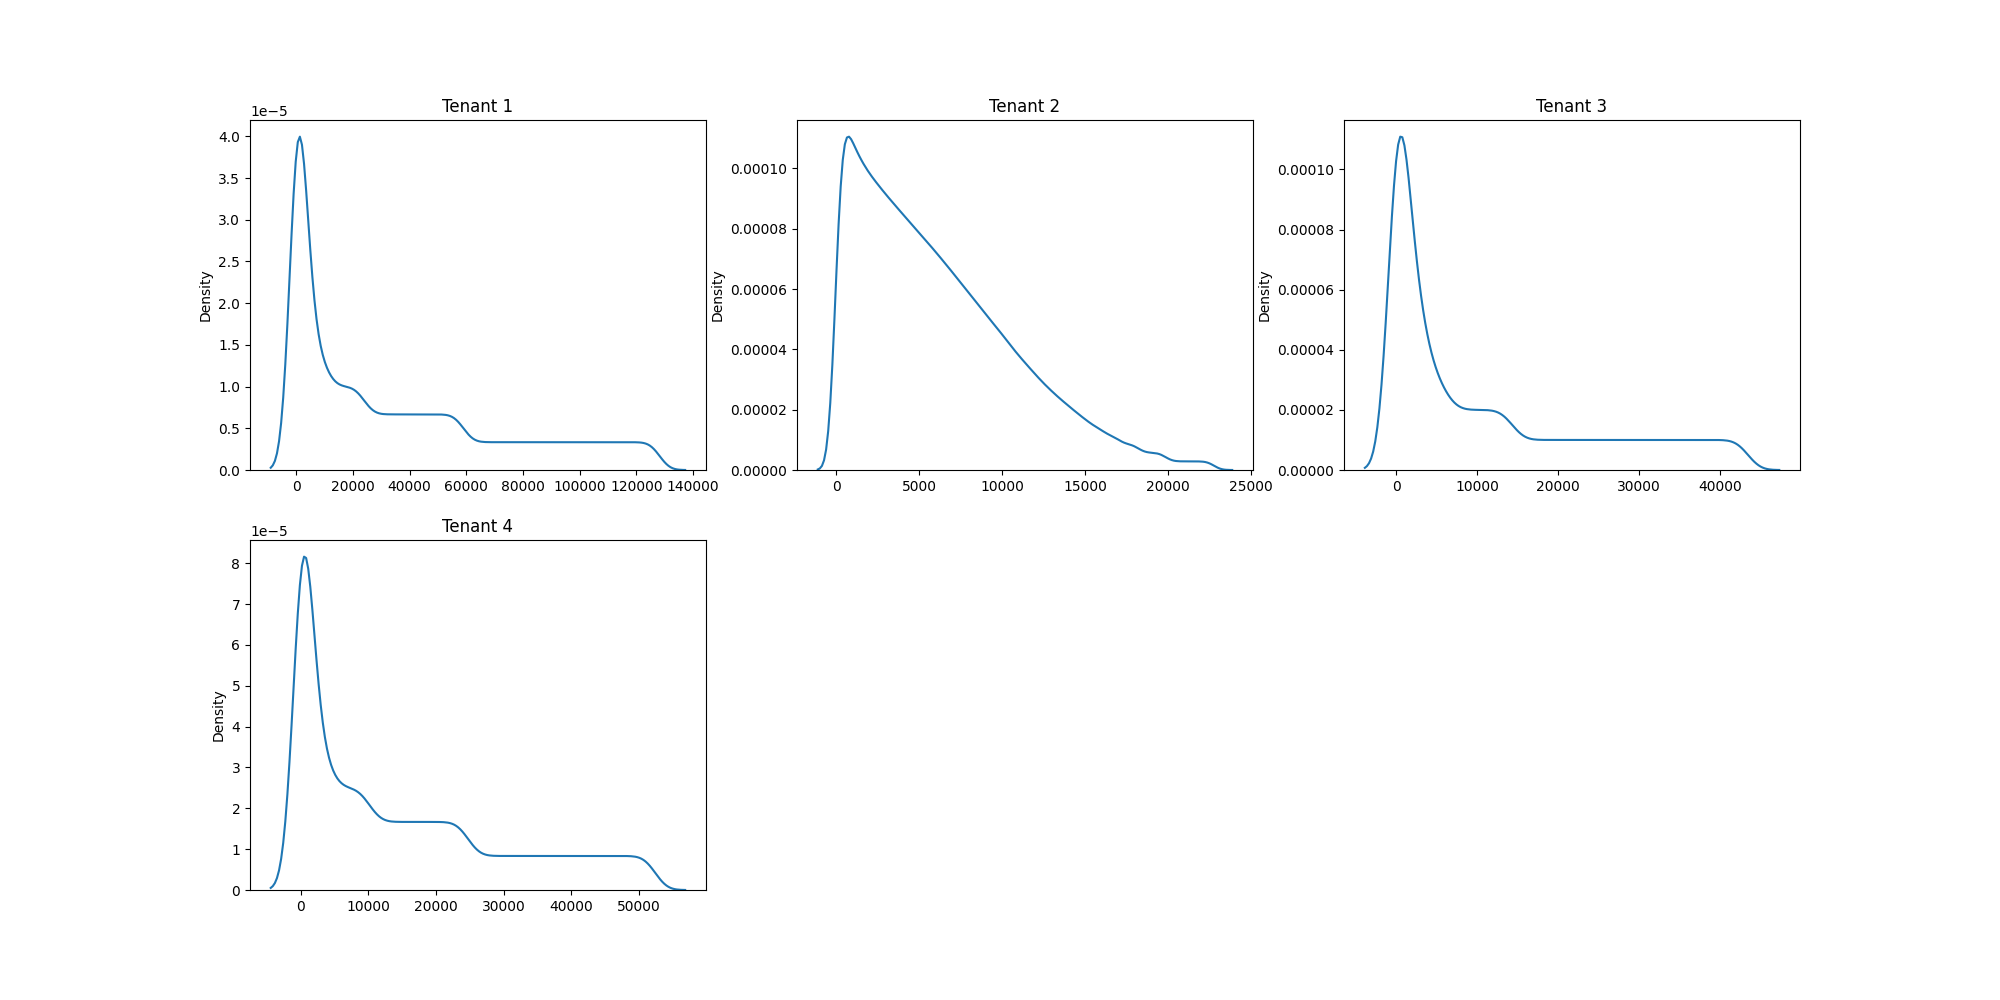
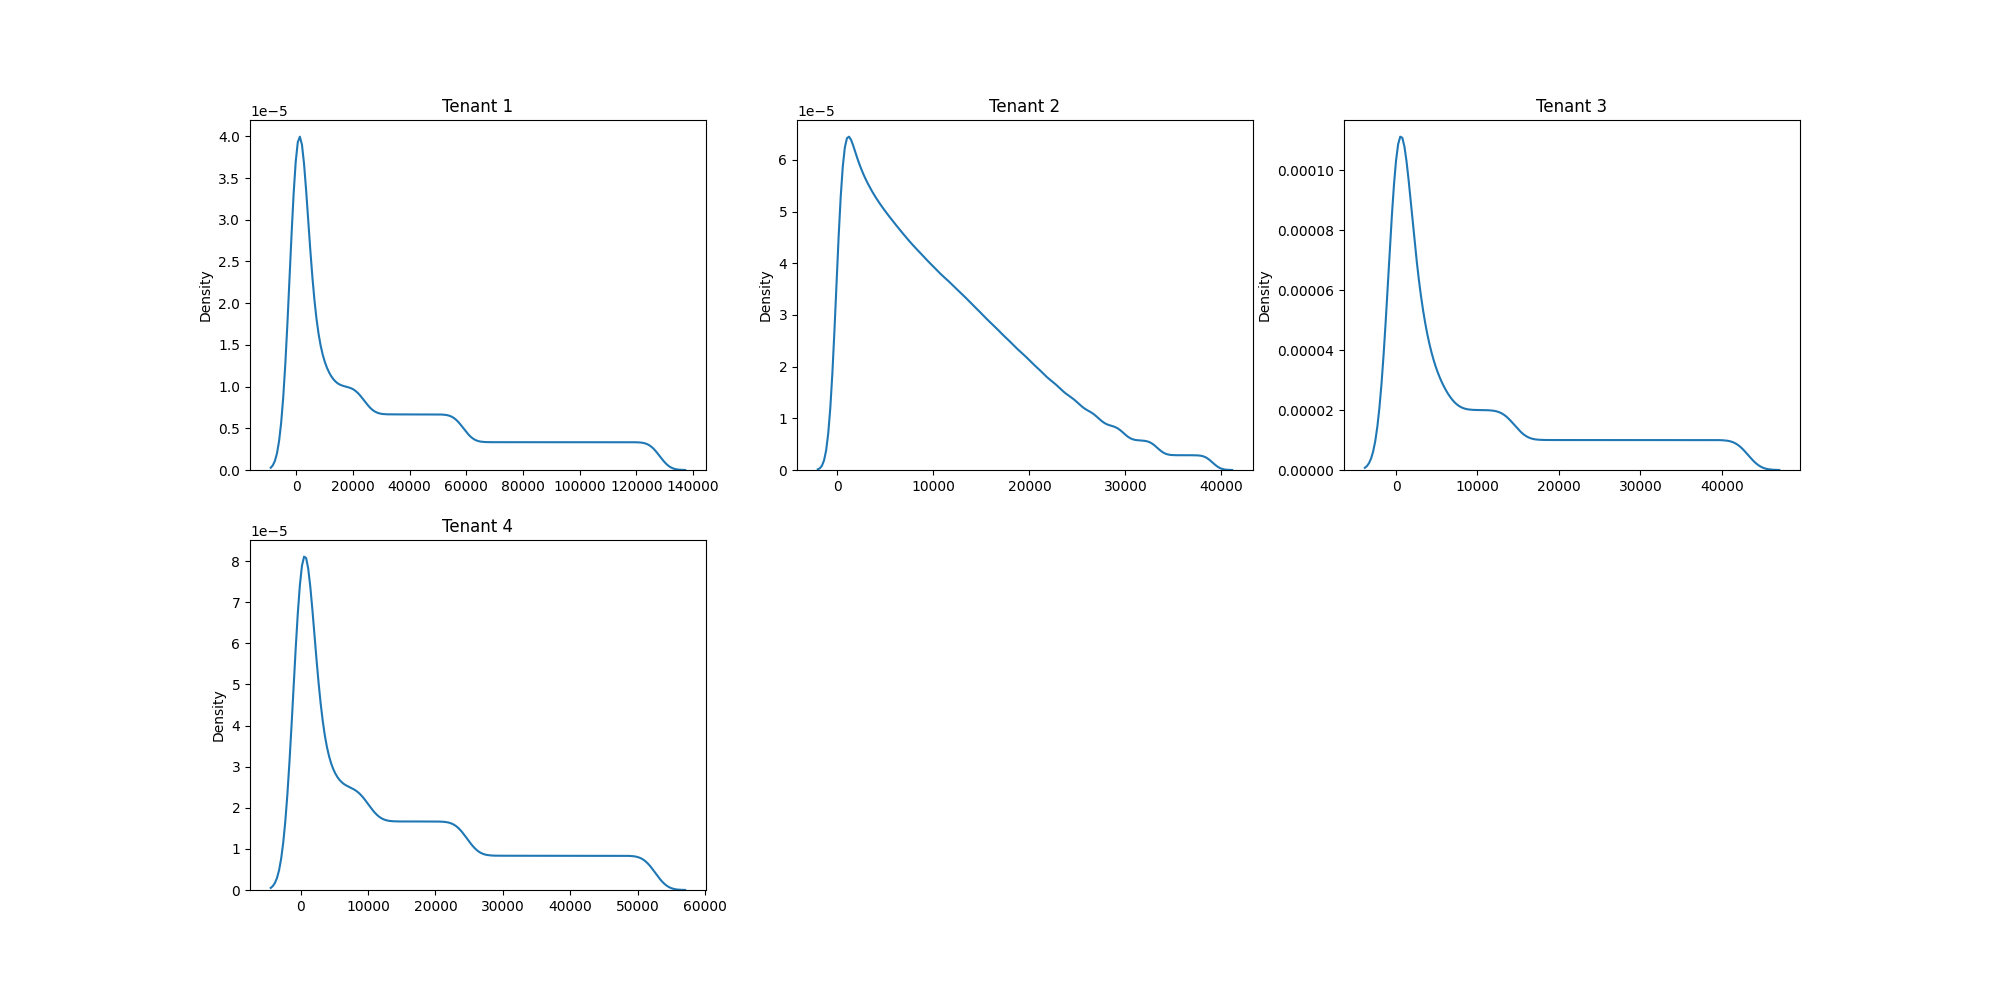
feat/modify-test-10

diff --git a/test_cases/test_case_10/description.py b/test_cases/test_case_10/description.py
@@ -9,17 +9,16 @@ tenants = [
         'minimum_buffer_size': 8000,
         'base_buffer_size': 17500,
         'maximum_buffer_size': 45000,
-        'page_accesses_dist': {
+        'page_accesses_dist': [
+          {
             'type': 'zipfian',
             'parameter': 1.01,
             'length': 300000,
-        },
+            'interval_type': 'uniform',
+            'interval_max_value': 1,
+          },
+        ],
         'pages_should_be_renumbered': False,
-        'page_accesses_interval_dist': {
-            'type': 'uniform',
-            'length': 300000,
-            'max_value': 1,
-        },
     },
     {
         'tenant_id': 2,
@@ -28,17 +27,16 @@ tenants = [
         'minimum_buffer_size': 10000,
         'base_buffer_size': 20000,
         'maximum_buffer_size': 50000,
-        'page_accesses_dist': {
+        'page_accesses_dist': [
+          {
             'type': 'normal',
             'variance': 8000,
-            'length': 350000,
-        },
-        'pages_should_be_renumbered': False,
-        'page_accesses_interval_dist': {
-            'type': 'uniform',
-            'length': 350000,
-            'max_value': 1,
-        },
+            'length': 175000,
+            'interval_type': 'uniform',
+            'interval_max_value': 1,
+          },
+        ] * 2,
+        'pages_should_be_renumbered': True,
     },
     {
         'tenant_id': 3,
@@ -47,17 +45,16 @@ tenants = [
         'minimum_buffer_size': 2000,
         'base_buffer_size': 5000,
         'maximum_buffer_size': 12500,
-        'page_accesses_dist': {
+        'page_accesses_dist': [
+          {
             'type': 'pareto',
             'parameter': 0.04,
             'length': 100000,
-        },
+            'interval_type': 'uniform',
+            'interval_max_value': 1,
+          },
+        ],
         'pages_should_be_renumbered': False,
-        'page_accesses_interval_dist': {
-            'type': 'uniform',
-            'length': 100000,
-            'max_value': 1,
-        },
     },
     {
         'tenant_id': 4,
@@ -66,17 +63,16 @@ tenants = [
         'minimum_buffer_size': 2500,
         'base_buffer_size': 6500,
         'maximum_buffer_size': 16000,
-        'page_accesses_dist': {
+        'page_accesses_dist': [
+          {
             'type': 'zipfian',
             'parameter': 1.005,
             'length': 120000,
-        },
-        'pages_should_be_renumbered': False,
-        'page_accesses_interval_dist': {
-            'type': 'uniform',
-            'length': 120000,
-            'max_value': 1,
-        },
+            'interval_type': 'uniform',
+            'interval_max_value': 1,
+          },
+        ],
+        'pages_should_be_renumbered': True,
     },
 ]
 
